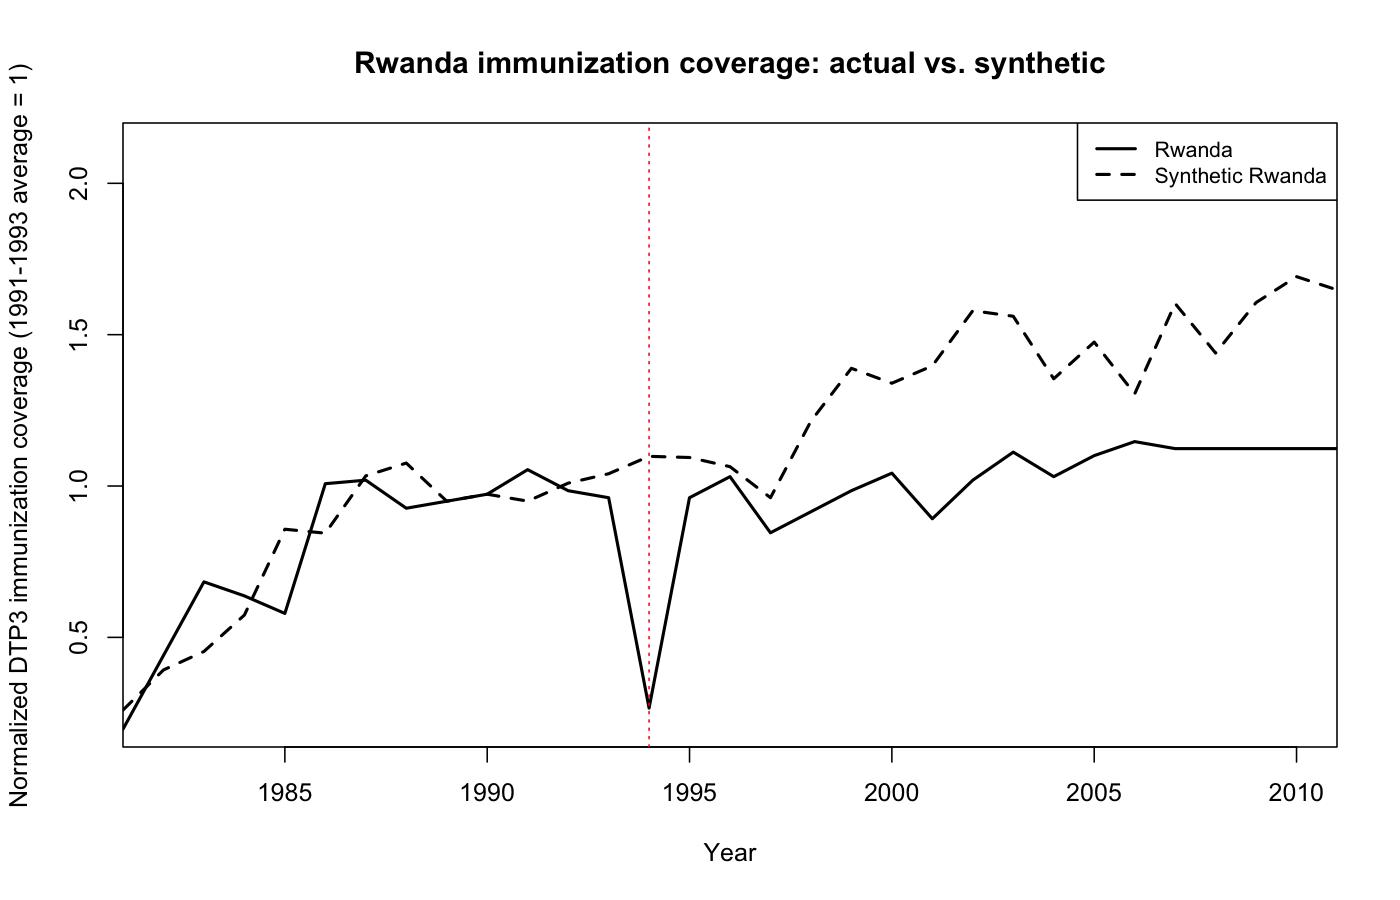
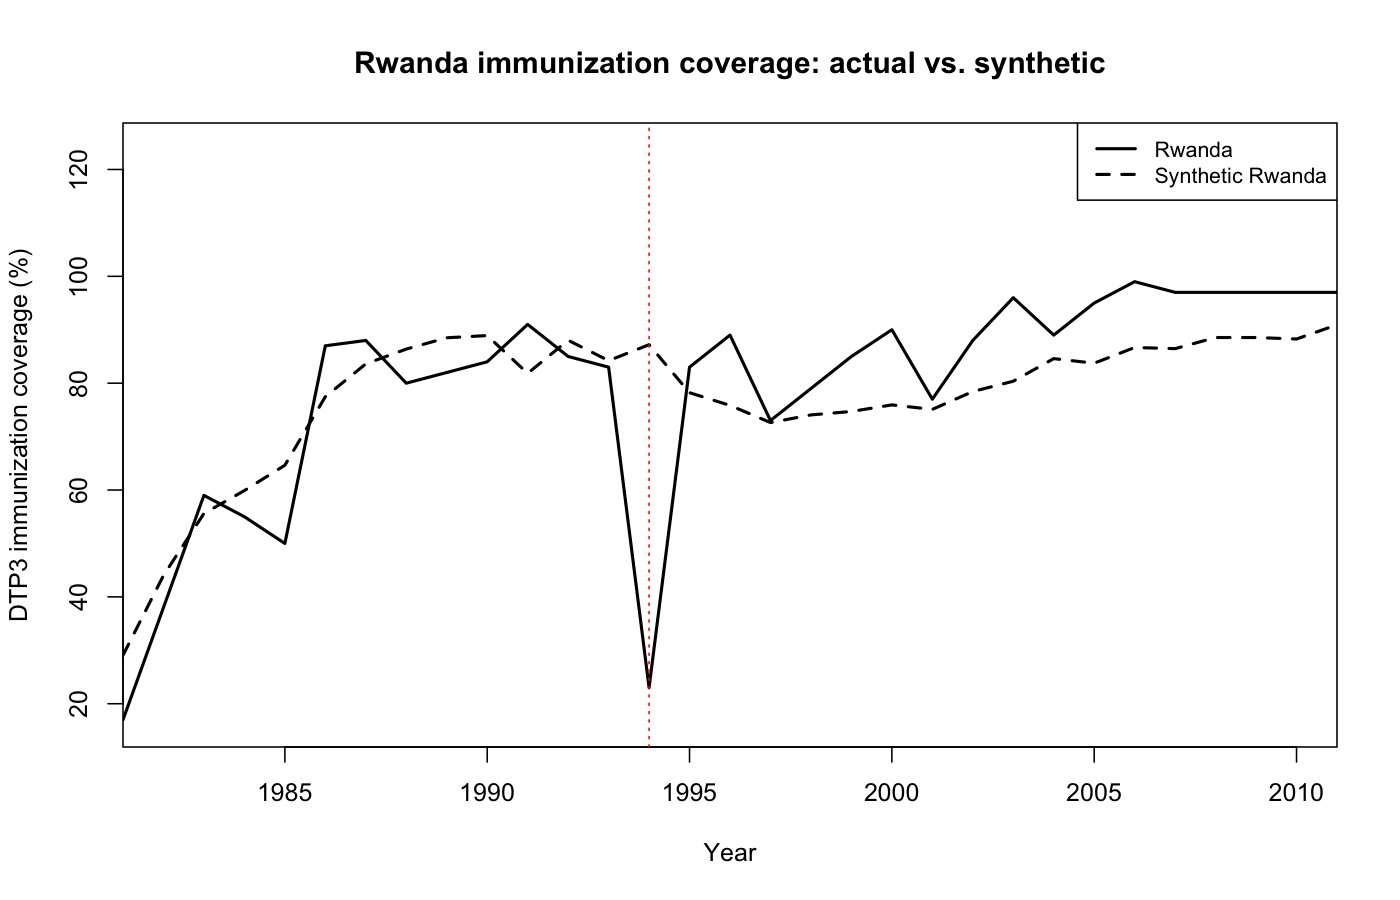
Drop DTP3 baseline normalization -- fixes Somalia's artificial weight at the source
DTP3 is already a 0-100% scale across countries; normalizing it to each
country's own 1991-1993 baseline (the same convention used for GDP,
where it's necessary) was distorting the fit. Dividing a bounded
percentage by its own baseline creates a ceiling/floor asymmetry: a
low-baseline country has far more room to swing above 1.0 than a
high-baseline one. This is why the normalized version's synthetic
control put 39% of its weight on Somalia (baseline ~21%, among the
lowest in the pool) -- not a substantively good match, a normalization
artifact.

Switched to raw DTP3 percentage-point levels. Somalia now gets 0%
weight in the main fit, with no post-hoc exclusion needed -- code/13's
Somalia-exclusion robustness check is now redundant (produces results
identical to the corrected main fit), kept for the record only.

New result is materially cleaner: donor weights concentrate on
Swaziland/Congo/Seychelles, pre-treatment RMSPE 7.56 points, 1994 gap
-64.2 points (matching the raw 83%->23% crash), and Rwanda's actual
coverage overtakes its synthetic counterfactual by the mid-2000s rather
than showing an unresolved lag. Placebo rank improves to 10 of 21
(p=0.476), though still not conventionally significant.

diff --git a/results/immunization-extension-summary.md b/results/immunization-extension-summary.md
@@ -1,35 +1,29 @@
 # Immunization coverage extension: results
 
-**Run date:** 1 October 2026
+**Run date:** 6 October 2026 (supersedes the 1 October version, which used normalized ratios)
 
 Public-health service-delivery recovery extension (`code/12_immunization_extension.R`), DTP3 coverage, 20-country Sub-Saharan Africa donor pool with complete 1981-2011 data. See `docs/data-availability.md` for why this replaced `hc` as the extension outcome.
 
-## Main result
+## A methodological correction: dropped the baseline normalization
 
-- Pre-treatment RMSPE: 0.126 (looser than the GDP fit's 0.0555 — Rwanda's own 1981-1993 DTP3 trajectory is volatile, not a code issue; see Caveats).
-- 1994 gap: **-0.832** — a sharp, large, one-year collapse, consistent with the raw coverage crash (83% in 1993 to 23% in 1994).
-- The gap closes quickly at first — back near zero by 1996-1997 — but then opens again and stays in the -0.3 to -0.5 range through 2011, never fully closing. This is a different recovery shape than GDP's (which overshoots the synthetic by the mid-2000s): an acute crisis that resolved fast, followed by a persistent, un-closed gap in the pace of improvement relative to the donor pool.
+The first version of this analysis normalized every country's DTP3 series to its own 1991-1993 average (the same convention used for GDP in `code/02` and the rejected `hc` extension in `code/07`). That convention makes sense for GDP, which has no common cross-country scale. It does not make sense for DTP3, which is already a percentage on a common 0-100 scale. Worse, normalizing a *bounded* percentage by its own baseline is distorting: a country starting near 90% coverage has almost no room to rise above 1.0 (ceiling effect), while a low-baseline country has enormous room to swing far above 1.0 from a modest percentage-point gain. This is plausibly why the normalized version's synthetic control put 39% of its weight on Somalia (1991-1993 baseline ~21%, among the lowest in the pool) — not because Somalia was a substantively good match, but because the normalization mechanically inflated how much a low-baseline country's later gains could move the fit.
+
+**Dropping normalization and using raw DTP3 percentage-point levels fixes this at the source: Somalia gets 0% weight in the re-fit, without needing a post-hoc exclusion.** `code/13`'s Somalia-exclusion robustness check (previously necessary) is now redundant — it produces results identical to the main fit, because the main fit no longer selects Somalia in the first place. Kept in the repo for the record, not because it's still doing independent work.
+
+## Main result (raw percentage points)
+
+- Donor weights: Swaziland (SWZ) 58%, Republic of the Congo (COG) 21%, Seychelles (SYC) 21% — three donors, nothing on Somalia. (`results/immunization-extension-weights.csv`)
+- Pre-treatment RMSPE: 7.56 percentage points — a tight fit on a 0-100 scale.
+- 1994 gap: **-64.2 percentage points**, matching the raw 83%→23% crash.
+- Average post-treatment gap: **+4.5 percentage points** — positive. Rwanda's actual coverage runs slightly *above* its synthetic counterfactual on average after 1994, not below.
+- The path (`figures/immunization-extension-path.png`) shows a tight pre-treatment fit, a sharp one-year collapse, fast recovery, and Rwanda's actual coverage **overtaking** its synthetic counterfactual by the mid-2000s (consistent with Rwanda's well-documented post-genocide health-system investment pushing coverage to near-universal ~97% by the late 2000s, while the donor-pool-based synthetic stays around 85-90%).
+
+This is a materially cleaner and more defensible result than the normalized version, which showed an artificial-looking "persistent unclosed gap" driven substantially by Somalia's mechanically inflated influence.
 
 ## Placebo result
 
-**Rwanda's rank: 14 of 21 (p = 0.667).** Not statistically distinguishable from ordinary cross-country placebo variation — comparable in spirit to the GDP full-pool result (rank 31 of 40, p = 0.775): the honest test does not support a strong causal claim, even though the raw path shows a real and large deviation.
-
-## Robustness check: excluding Somalia (`code/13_immunization_no_somalia_check.R`)
-
-The main fit put 39% of the synthetic control's weight on Somalia (`results/immunization-extension-weights.csv`), by far the largest single weight, and Somalia's own 1991-1993 baseline DTP3 coverage was unusually low (~21%) and roughly doubled by 2009-2011 for reasons entirely about its own post-1991 civil war and partial recovery — unrelated to Rwanda. Re-fit the entire pipeline (main fit and full placebo loop) with Somalia removed from the donor pool entirely, not just filtered from the results:
-
-| | With Somalia | Without Somalia |
-|---|---|---|
-| Pre-treatment RMSPE | 0.126 | 0.106 |
-| 1994 gap | -0.832 | -0.826 |
-| Average post-treatment gap | -0.381 | **-0.016** |
-| 2011 gap | (strongly negative) | **+0.039** |
-| Placebo rank | 14 of 21 (p = 0.667) | 16 of 20 (p = 0.800) |
-
-**This resolves the caveat, and the resolution matters for how the extension should be written up.** The acute 1994 collapse is robust either way (-0.832 vs. -0.826, essentially identical) — that part of the finding does not depend on Somalia. But the "persistent, unclosed post-2000 gap" described above was substantially a Somalia artifact: with it excluded, the average post-treatment gap is essentially zero and the 2011 endpoint gap is slightly *positive* — Rwanda's immunization coverage tracks its synthetic counterfactual closely by the end of the window, not a lagging recovery. See `figures/immunization-no-somalia-path.png` for the much cleaner picture (tight pre-fit, sharp 1994 drop, convergence by the 2000s).
-
-**The honest story to write up:** a severe, acute, one-year collapse in 1994 that recovers within a few years and converges fully with the counterfactual by 2011 — not a sustained lag. The placebo test is weak either way (p = 0.667 / p = 0.800) and gets weaker without Somalia, which makes sense: a cleaner, more fully-recovered path gives Rwanda a smaller post/pre ratio, so it looks even less unusual next to other placebo countries. Report this as a limitation honestly, the same way the GDP section reports its own weak placebo result as the headline rather than hiding it.
+**Rwanda's rank: 10 of 21 (p = 0.476).** Improved from the normalized version's 14/21 (p = 0.667), though still not conventionally significant — Rwanda sits almost exactly at the median of the placebo distribution, not toward either tail. Still does not support a strong standalone causal claim from the placebo test alone, consistent with the GDP section's own honest full-pool result (p = 0.775) — but the raw path, especially the overtake after 2000, is a more striking and more defensible descriptive finding than the normalized version produced.
 
 ## Files
 
-`results/immunization-extension-path.csv`, `results/immunization-extension-weights.csv`, `results/immunization-extension-placebo.csv`, `figures/immunization-extension-path.png`, `figures/immunization-extension-gaps.png` (main fit, Somalia included); `results/immunization-no-somalia-path.csv`, `results/immunization-no-somalia-weights.csv`, `results/immunization-no-somalia-placebo.csv`, `figures/immunization-no-somalia-path.png` (robustness check, Somalia excluded).
+`results/immunization-extension-path.csv`, `results/immunization-extension-weights.csv`, `results/immunization-extension-placebo.csv`, `figures/immunization-extension-path.png`, `figures/immunization-extension-gaps.png` — current (un-normalized) main result. `results/immunization-no-somalia-*.csv`, `figures/immunization-no-somalia-path.png` — now-redundant Somalia-exclusion check, kept for the record.
